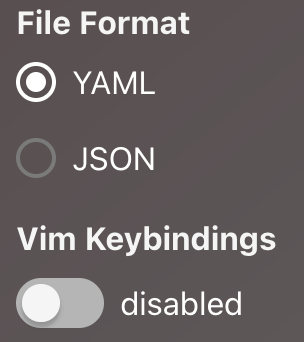
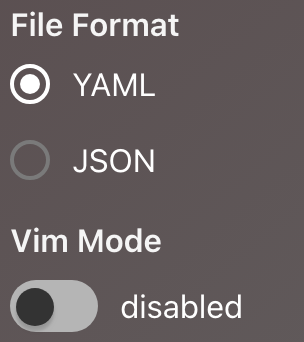
docs: retake the config editor settings screenshot
The config editor names its Vim toggle Vim Mode, so the settings screenshot and the text above it now use that name.

diff --git a/docs/content/configuration.md b/docs/content/configuration.md
@@ -782,7 +782,7 @@ The editor window allows direct editing of an existing or new config file.
   button under `File Format`.
 
 - It is also possible to set keybindings to the Vim editor by enabling them with
-  the sliding selector under `Vim Keybindings`.
+  the sliding selector under `Vim Mode`.
   ![screenshot](images/edit_settings.png){: width=150 .center}
 
 #### New Config
